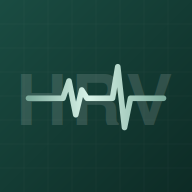
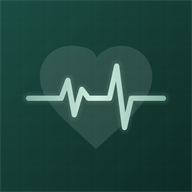
Ikona: serce zamiast napisu HRV
Aplikacja nie notuje HRV, więc napis w tle ikony zastąpiło półprzezroczyste
serce; tło, siatka i linia EKG bez zmian. Cache service workera v4.

Changed region(s): [[0.0938, 0.2188, 0.9062, 0.7812]]

diff --git a/sw.js b/sw.js
@@ -1,4 +1,4 @@
-const CACHE = 'cisnienie-v3';
+const CACHE = 'cisnienie-v4';
 const PLIKI = ['./', './index.html', './manifest.json', './icon-192.png', './icon-512.png'];
 
 self.addEventListener('install', e => {

diff --git a/CLAUDE.md b/CLAUDE.md
@@ -23,7 +23,7 @@ Celowo bez frameworków i bez kroku budowania — jeden plik HTML z wbudowanym C
 | `index.html` | całość: struktura, style, logika |
 | `manifest.json` | manifest PWA (`display: standalone`, motyw `#123a33`) |
 | `sw.js` | service worker, cache `cisnienie-v1`, strategia cache-first |
-| `icon-192.png`, `icon-512.png` | ikona: linia EKG na ciemnej zieleni, „HRV" w tle |
+| `icon-192.png`, `icon-512.png` | ikona: linia EKG na ciemnej zieleni, półprzezroczyste serce w tle |
 
 Wszystkie pliki leżą w **korzeniu repo** — Pages serwuje branch `main`, folder `/ (root)`.
 
